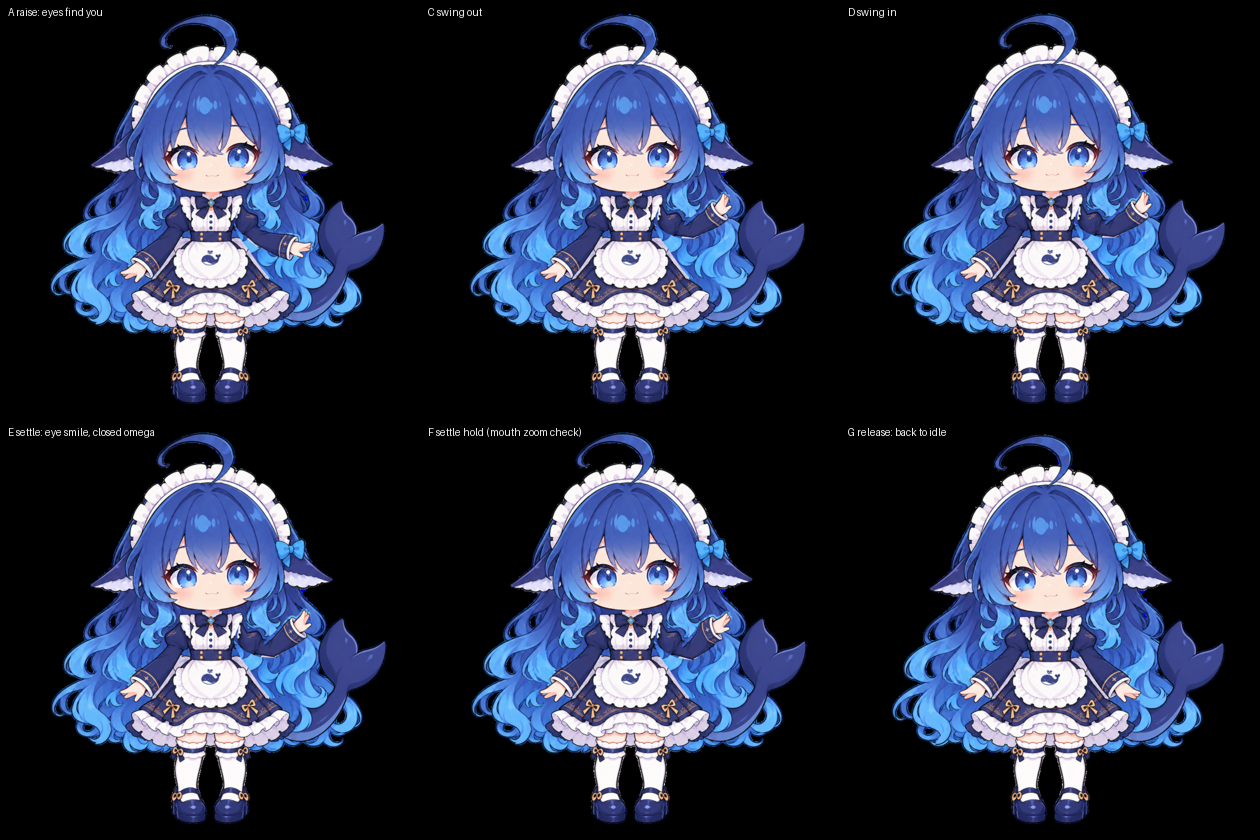
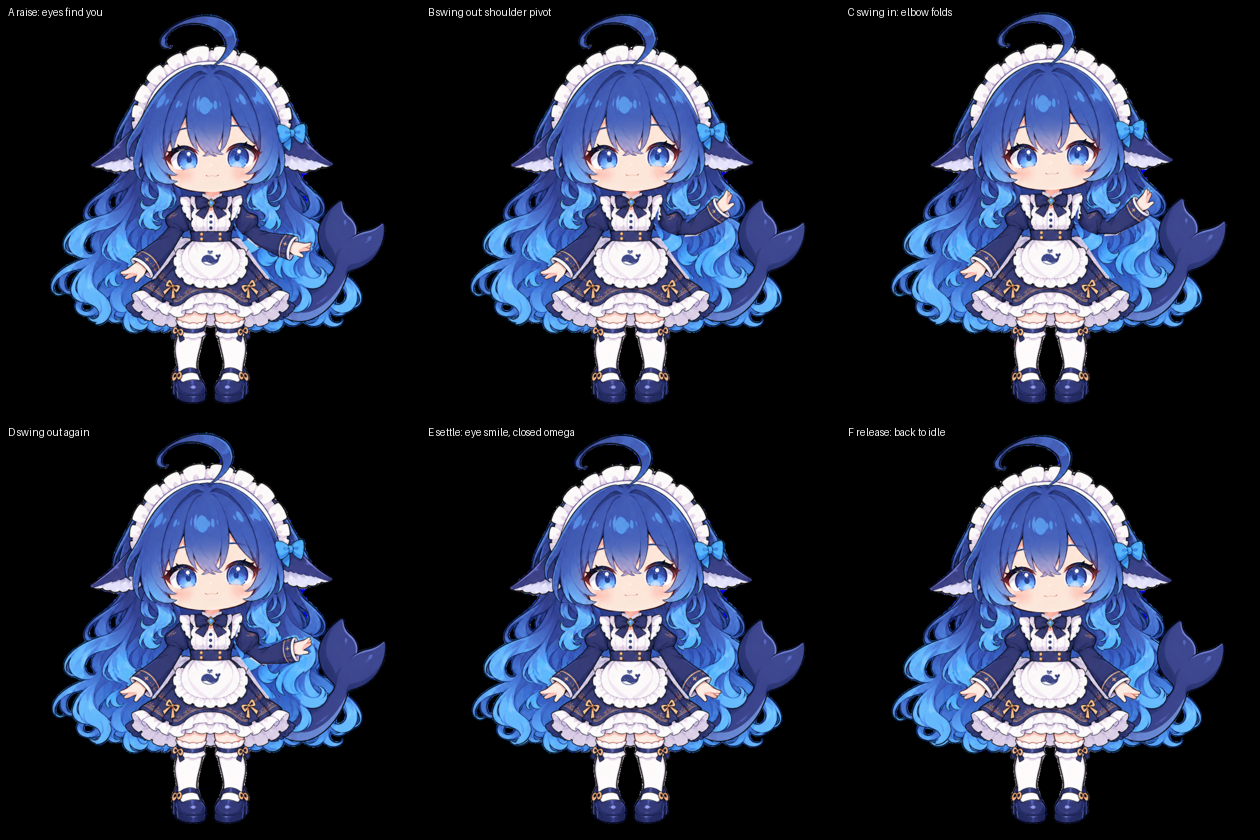
wave r2: shoulder-driven swing; user hooks preempt spontaneous scenes
Two user rulings: (1) the wave read as a wrist flip -- the wrist keys
(+/-.22-25) rivalled the elbow delta while the shoulder only moved 12
degrees. The swing now pivots at the shoulder with a 26-degree span
(arm 62<->36, elbow 20<->52) and the wrist only follows by +/-6.
(2) The TriggerDirector must not crowd out hook triggers: the user
hooks (head pat / turn-ended / stretch) now preempt -- they cancel any
active wave/box/rice outright instead of overlapping or being refused,
so hooks always own the stage from their first frame. New test
userHooksPreemptSpontaneousScenes; swing assertions re-anchored on the
shoulder. CTest 10/10, ParameterMotionTest 55/55, unittest 150 OK.

diff --git a/tests/ParameterMotionTest.cpp b/tests/ParameterMotionTest.cpp
@@ -124,6 +124,7 @@ private slots:
     void waveRaisesSwingsAndSettles();
     void waveRefusesBusyAndYieldsToDelete();
     void waveLeavingIdleReleasesWithoutPop();
+    void userHooksPreemptSpontaneousScenes();
     void boxPeekCaughtBlinksDucksAndRepeeksSmiling();
     void boxPeekExitRestoresStandBeforeBoxLeaves();
     void boxPeekRefusesBusyAndYieldsToDelete();
@@ -689,11 +690,12 @@ void ParameterMotionTest::waveRaisesSwingsAndSettles() {
     QVERIFY(motion.waveArm() > 15.0);
     QVERIFY(motion.values().value(QStringLiteral("ParamEyeBallX")) > 0.05);
     QVERIFY(motion.values().value(QStringLiteral("ParamEyeBallX")) <= 0.31);
-    advanceFrames(motion, 16); // 0.62s: first swing out peaks
-    QVERIFY(motion.waveWrist() > 5.0);
-    advanceFrames(motion, 51); // 1.62s: deep in the second swing-in leg
+    advanceFrames(motion, 25); // 0.80s: first swing-out peak
+    QVERIFY(motion.waveArm() > 55.0);   // the swing pivots at the shoulder
+    QVERIFY(motion.waveWrist() < 10.0); // the wrist only follows (r2 ruling)
+    advanceFrames(motion, 41); // 1.62s: deep in the second swing-in leg
     QVERIFY(motion.waveWrist() < 0.0);
-    QVERIFY(motion.waveArm() > 30.0); // still up beside her head
+    QVERIFY(motion.waveArm() > 30.0 && motion.waveArm() < 50.0);
     // Settle: the arm glides home while the eye smile blooms. The mouth
     // stays the idle closed omega -- the open grin is banned (user r2).
     advanceFrames(motion, 24); // 2.10s
@@ -750,6 +752,34 @@ void ParameterMotionTest::waveLeavingIdleReleasesWithoutPop() {
     advanceFrames(motion, 20); // 1.00s: release finished
     QVERIFY(!motion.waveActive());
     QCOMPARE(motion.waveArm(), 0.0);
+}
+
+void ParameterMotionTest::userHooksPreemptSpontaneousScenes() {
+    QTemporaryDir dir;
+    QVERIFY(writeReactionFixture(dir));
+    ParameterMotion motion;
+    QVERIFY(motion.loadBusyLaptopMotion(QStringLiteral("assets/motions/busy-laptop.motion.json")));
+    QVERIFY(motion.loadMotionLibrary(dir.path()));
+    advanceFrames(motion, 10);
+    // A spontaneous wave is cut short the moment the user pats her: hooks
+    // are commands, the director's scenes are filler (r2 trigger ruling).
+    QVERIFY(motion.playWave());
+    advanceFrames(motion, 10); // 0.20s: mid raise
+    QVERIFY(motion.waveArm() > 5.0);
+    QVERIFY(motion.beginHeadPat(0.3));
+    QCOMPARE(motion.waveArm(), 0.0);  // instant stand-down, no overlap
+    QVERIFY(!motion.waveActive());
+    QCOMPARE(motion.interactionId(), QStringLiteral("head-pat"));
+    motion.endHeadPat();
+    advanceFrames(motion, 60); // the pat releases and drains
+    // The turn hook likewise takes the stage away from a box peek.
+    QVERIFY(motion.playBoxPeek());
+    advanceFrames(motion, 45); // 0.90s: eyes at the box edge
+    QVERIFY(motion.boxPeekActive());
+    QVERIFY(motion.playTurnEnded());
+    QVERIFY(!motion.boxPeekActive());
+    QCOMPARE(motion.boxPeekDuck(), 0.0);
+    QCOMPARE(motion.interactionId(), QStringLiteral("turn-ended"));
 }
 
 void ParameterMotionTest::boxPeekCaughtBlinksDucksAndRepeeksSmiling() {

diff --git a/src/ParameterMotion.cpp b/src/ParameterMotion.cpp
@@ -382,7 +382,17 @@ void ParameterMotion::cancelInteraction() {
     // expression-before-blink filter as a normal state transition.
 }
 
+void ParameterMotion::preemptSpontaneous() {
+    // The scheduler's scenes are filler; a user hook is a command. Cancel
+    // them outright (the same treatment Delete/Grass get) so the hook owns
+    // the stage from its first frame -- no overlap, no refusal.
+    wave_.cancel();
+    box_.cancel();
+    rice_.cancel();
+}
+
 bool ParameterMotion::playTurnEnded() {
+    preemptSpontaneous();
     if (state_ != PetController::State::Idle || preview_ || interactionActive()
         || !turnEndedClip_.isValid()) return false;
     interaction_ = Interaction::TurnEnded;
@@ -394,6 +404,7 @@ bool ParameterMotion::playTurnEnded() {
 }
 
 bool ParameterMotion::playStretch() {
+    preemptSpontaneous();
     if (preview_ || interactionActive() || !stretchClip_.isValid()) return false;
     // The stretch clip keys the full seated desk pose (BusyLaptop/SitPose/
     // DeskVisible/LaptopVisible), so it is only playable over the seated
@@ -435,6 +446,7 @@ bool ParameterMotion::canBeginHeadPat() const {
 
 bool ParameterMotion::beginHeadPat(double direction) {
     if (!canBeginHeadPat()) return false;
+    preemptSpontaneous();
     cancelInteraction();
     interaction_ = Interaction::HeadPat;
     headPatHeld_ = true;

diff --git a/src/motion/WaveBehavior.cpp b/src/motion/WaveBehavior.cpp
@@ -29,18 +29,21 @@ WaveBehavior::Channels WaveBehavior::raiseTarget() {
 
 WaveBehavior::Channels WaveBehavior::swingOutTarget() {
     Channels c;
-    c.arm = 56.0;
-    c.elbow = 24.0;
-    c.wrist = 22.0;
+    // Shoulder-driven swing (user ruling r2: the wave must not read as a
+    // wrist flip). The whole arm pivots at the shoulder with a 26-degree
+    // span; the elbow folds along and the wrist only follows by a hint.
+    c.arm = 62.0;
+    c.elbow = 20.0;
+    c.wrist = 6.0;
     c.gazeX = kGazeX;
     return c;
 }
 
 WaveBehavior::Channels WaveBehavior::swingInTarget() {
     Channels c;
-    c.arm = 44.0;
-    c.elbow = 46.0;
-    c.wrist = -25.0;
+    c.arm = 36.0;
+    c.elbow = 52.0;
+    c.wrist = -6.0;
     c.gazeX = kGazeX;
     return c;
 }

diff --git a/src/ParameterMotion.h b/src/ParameterMotion.h
@@ -75,6 +75,10 @@ public:
     void updateHeadPat(double direction);
     void endHeadPat();
     void cancelInteraction();
+    // User hooks (pat / turn-ended / stretch) outrank the spontaneous
+    // director: the lightweight scenes stand down at once so a hook never
+    // overlaps or gets refused by them.
+    void preemptSpontaneous();
     bool interactionActive() const;
     QString interactionId() const;
     // Authored clip time, including the bounded hold loop.

diff --git a/art/live2d/wave-hello-20261007-r1/DESIGN.md b/art/live2d/wave-hello-20261007-r1/DESIGN.md
@@ -1,4 +1,4 @@
-# 挥手打招呼 r1 — 设计卡（2026-10-07 已验收采用）
+# 挥手打招呼 r1 — 设计卡（2026-10-07 已验收采用；r2 轴心重做）
 
 状态：**已验收采用（2026-10-07 用户真机批准）**。概念与运行时实现
 均通过；启动问候未启用（可选追加项，用户未要求）。
@@ -28,13 +28,18 @@ CTest 9/9 + ParameterMotionTest 54/54（新增 3 项 wave 测试）。审核图
 - **关键拍**（全现有轴，零网格形变）：
   - A 抬臂 ~0.5s：ArmRA 0→50 + ElbowRA 0→35，视线先一步找到用户
     （EyeBallX 0.2）
-  - B/C 摆动 2 轮：外摆（肩 56/肘 24/腕 +22）↔ 内摆（肩 44/肘 46/
-    腕 -25），每向 ~0.3s，共 ~1.2s
+  - B/C 摆动 2 轮（**r2 轴心重做：肩驱动**——用户真机反馈「轴用错了，
+    怎么会在手腕部」，原腕键 ±22~25 与肘差相当、视觉读作手腕甩动）：
+    外摆（肩 62/肘 20/腕 +6）↔ 内摆（肩 36/肘 52/腕 -6），肩跨 26°、
+    腕仅跟随点缀，每向 ~0.3s，共 ~1.2s
   - D 收臂 ~0.5s：臂归位 + EyeSmile 0.85（弯眼笑意；**嘴保持站姿闭ω**。
     ~~SmileOpen=1 开口咧嘴~~ 已按用户裁决 r2 移除——真机观感「诡异，
     贼笑」；对比帧 build/arm-probe/smile-compare.png 后选定闭眼弯+ω）
   - 总时长 ~2.7s，结束回 Idle
-- **打断**：Delete/Grass 优先取消，拖动让位；坐姿 Busy 期间托盘项置灰
+- **打断**：Delete/Grass 优先取消，拖动让位；坐姿 Busy 期间托盘项置灰；
+  **用户 hook（摸头/转身/伸展）抢占一切自发场景**（r2 触发规则：hook
+  是命令、调度器场景是填充——hook 入口先 cancelWave/Box/Rice，绝不
+  叠画也绝不被拒）
 - **实现**：新 `WaveBehavior`（行为模块惯例：begin/advance/apply/
   cancel），ParameterMotion 一行转发；无窗口图层道具
 
